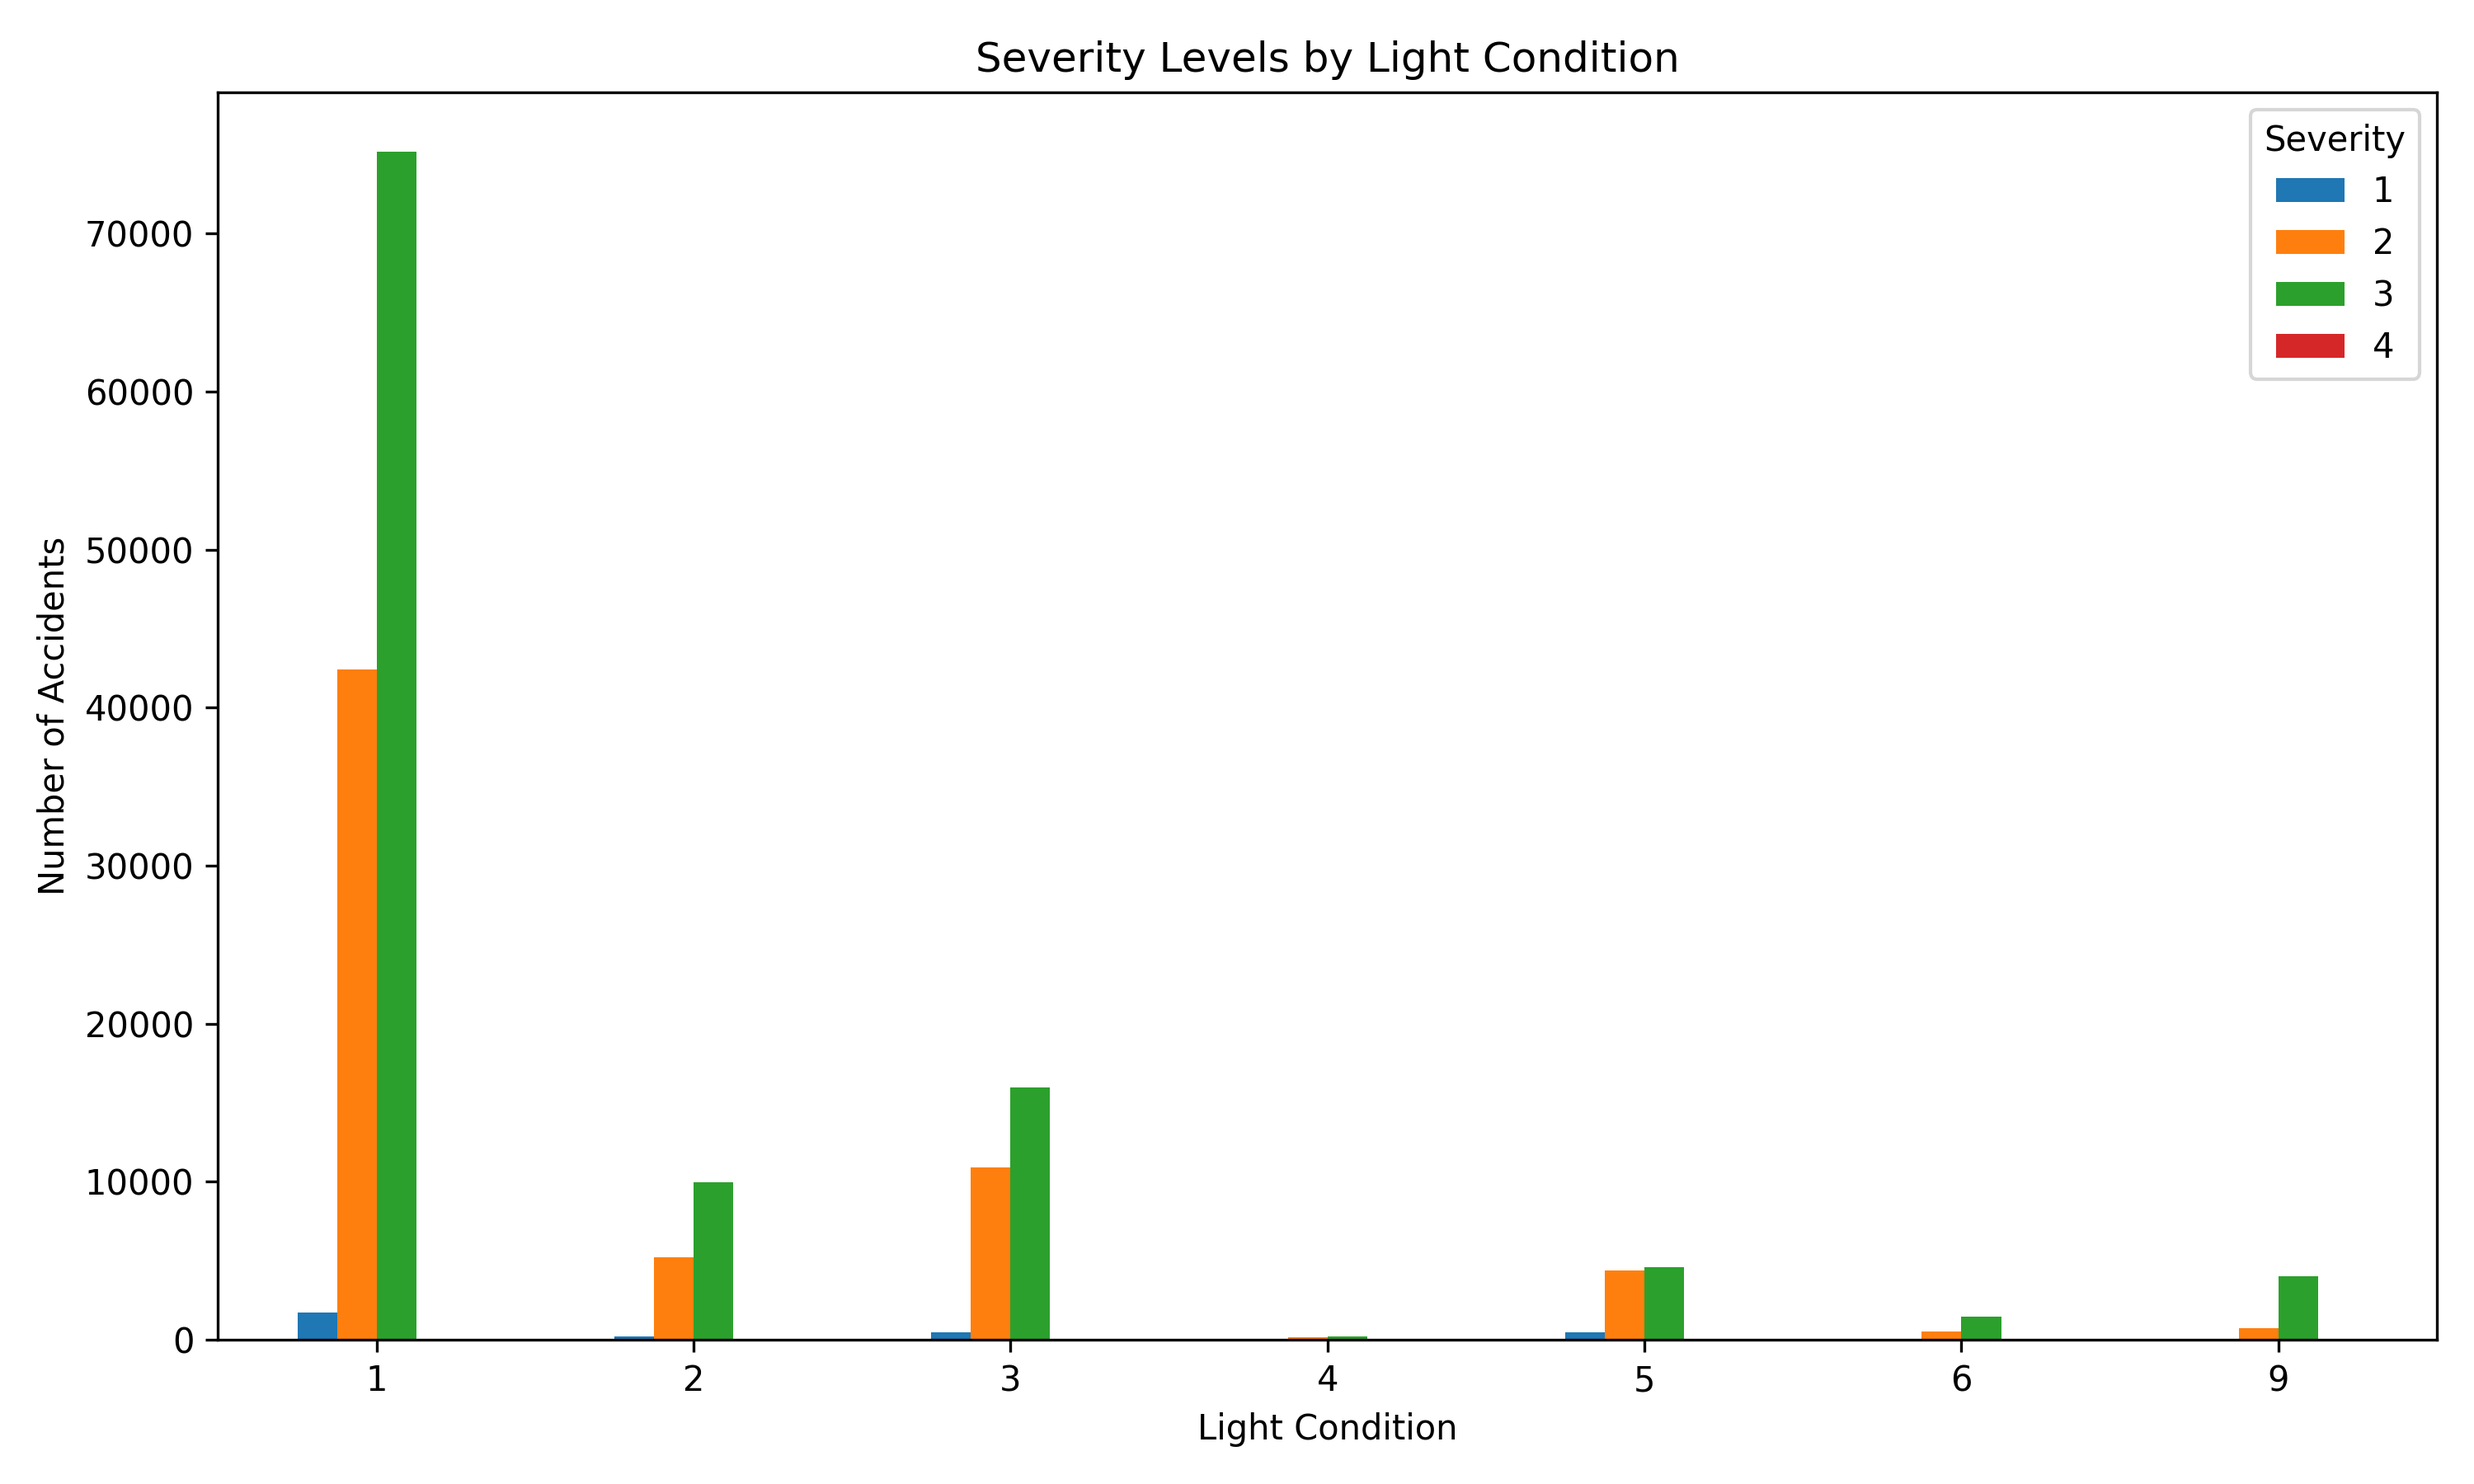
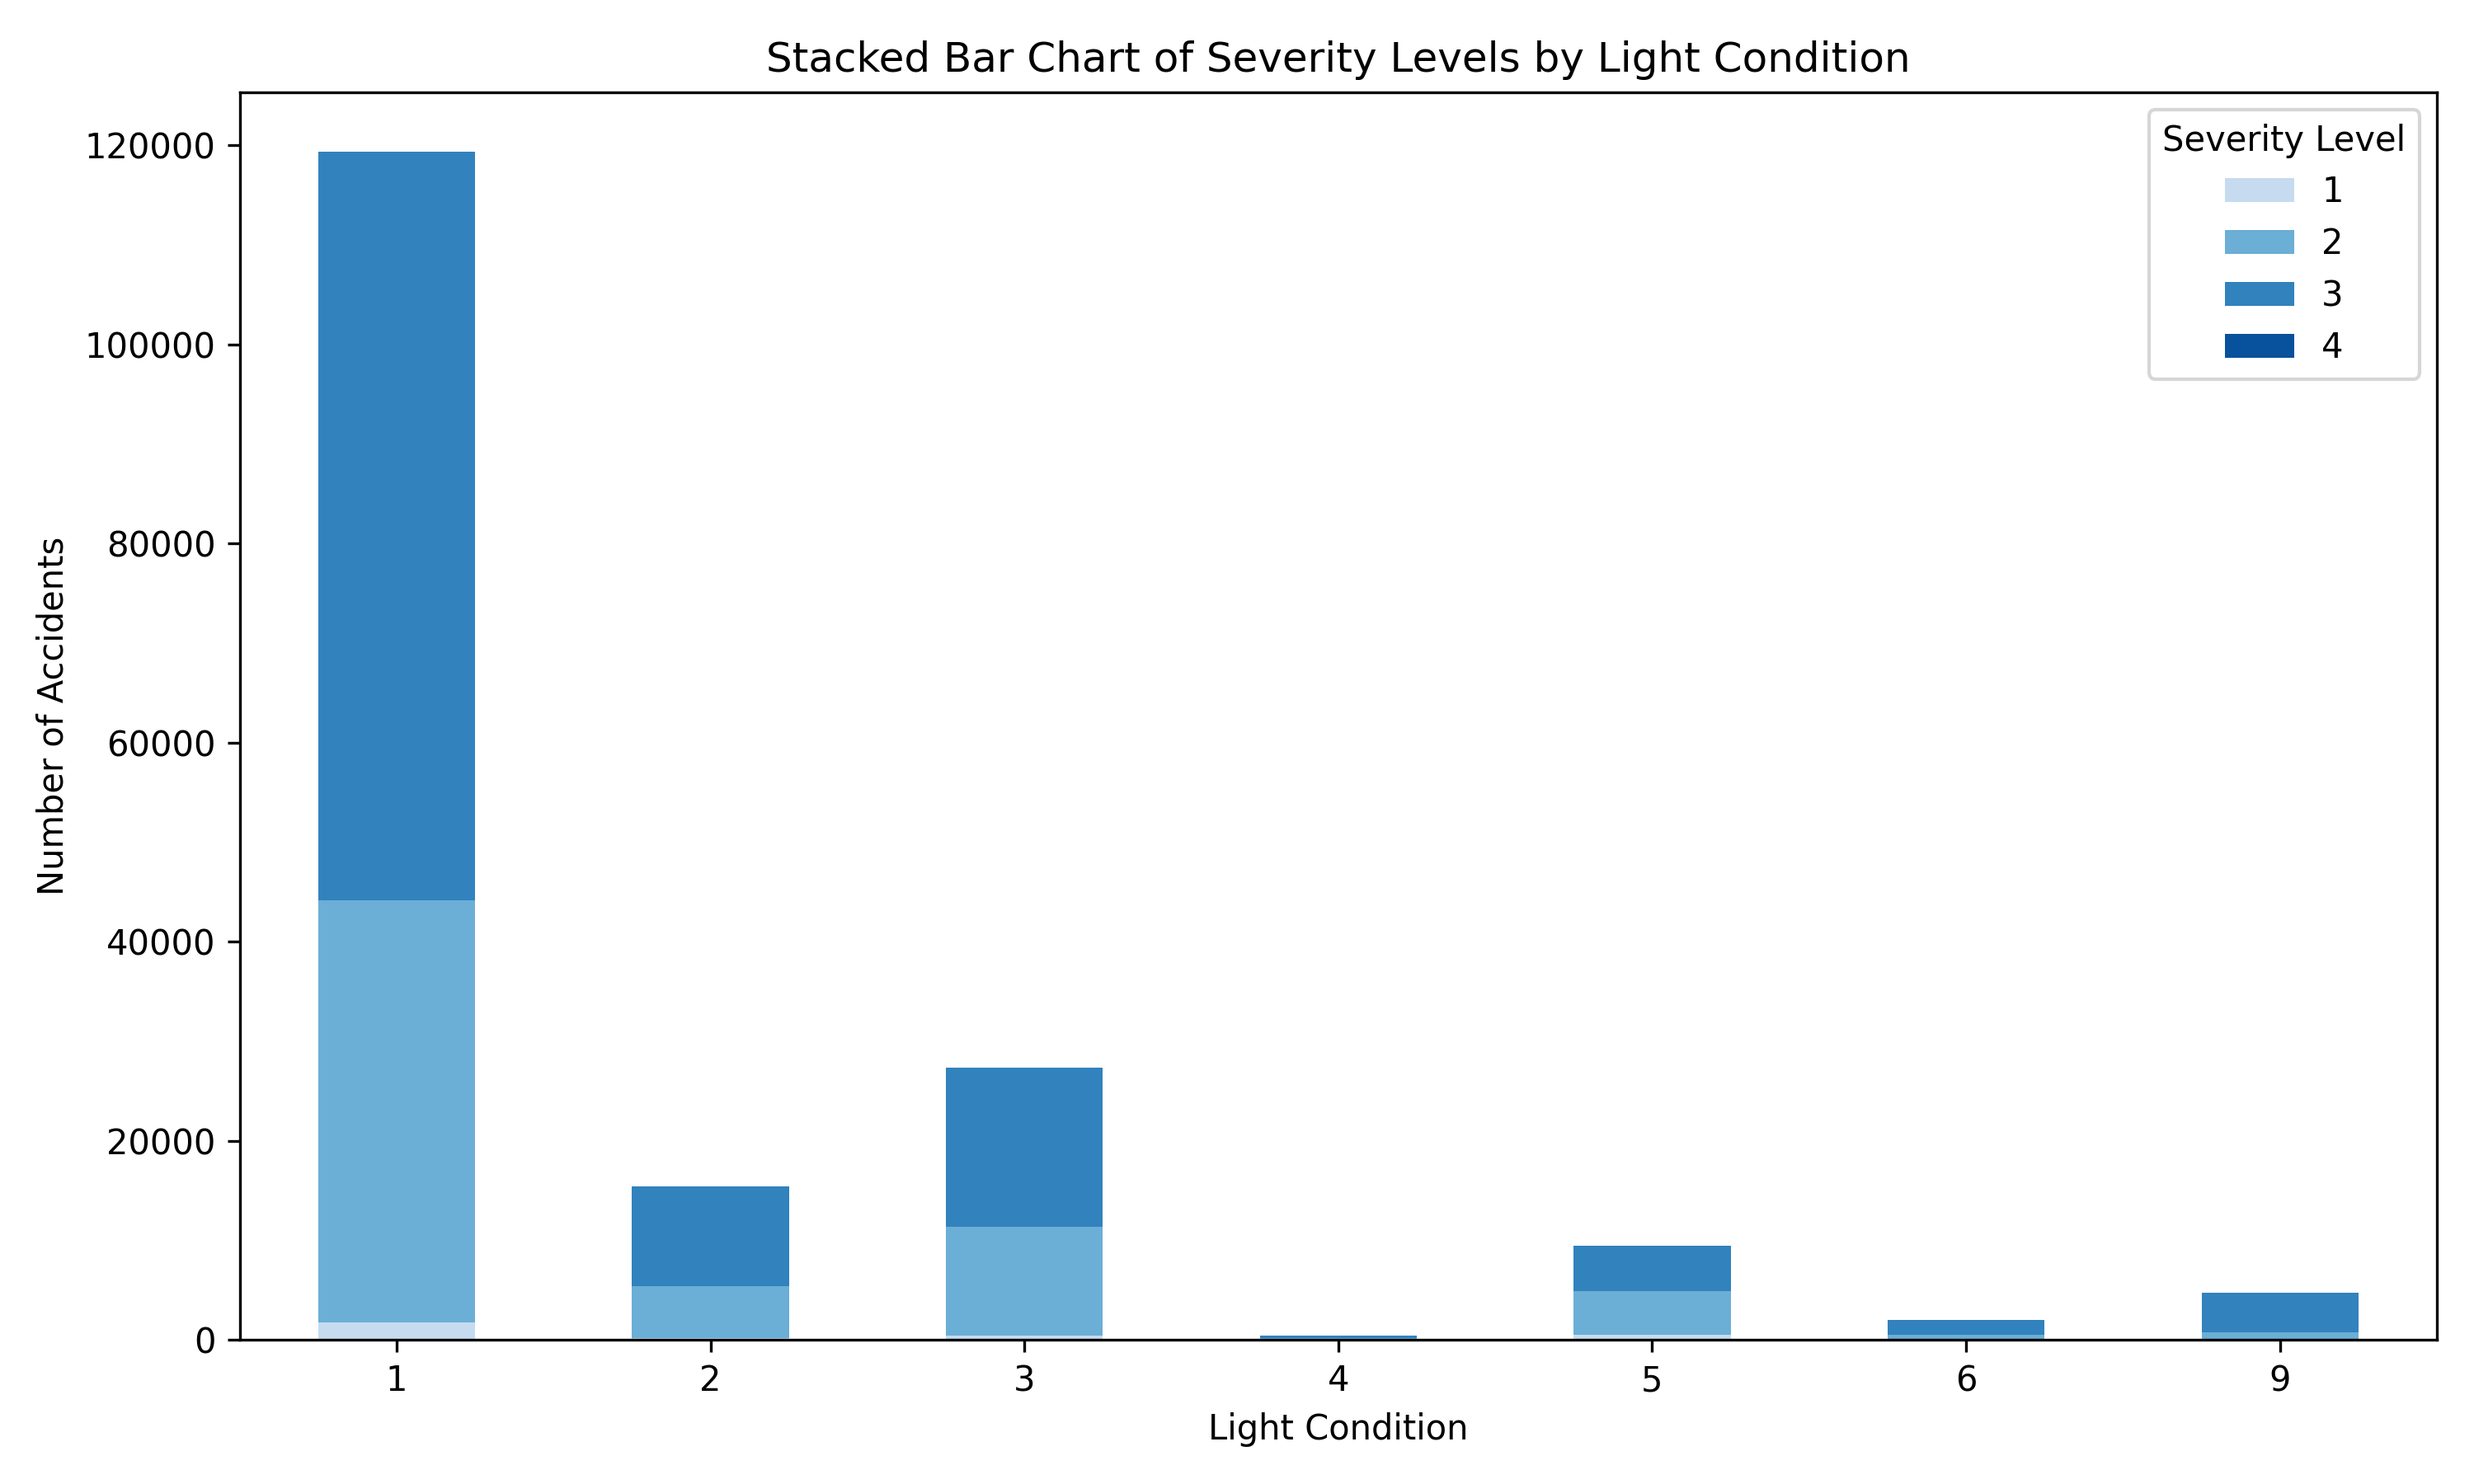
Update code for requirement 2 for Task_3.py to generate Task_3_lightcondition.png

diff --git a/Task_3.py b/Task_3.py
@@ -2,7 +2,7 @@
 # We will focus on these points for task 3:
 #     + Generate a heat map showing the correlation between SEVERITY, NO_OF_VEHICLES, and SPEED_ZONE
 #       --> save as Task_3_heatmap.png
-#     + Create a grouped bar chart comparing severity levels across different LIGHT_CONDITION categories
+#     + Create a stacked bar chart comparing severity levels across different LIGHT_CONDITION categories
 #       --> save as Task_3_lightcondition.png
 #     + Analyze the relationship between SEVERITY and NO_PERSONS_KILLED / NO_PERSON_INJ_2 / NO_PERSON_INJ_3
 #       --> save as Task_3_injuries.png
@@ -66,19 +66,30 @@ for check in checking_col:
     print(check.value_counts(dropna=False))
 '''
 
-# Group by LIGHT_CONDITION and SEVERITY, then count
+# Step 2: Group and pivot
 grouped = second_cleaned_accident.groupby(['LIGHT_CONDITION', 'SEVERITY']).size().reset_index(name='count')
-pivot_table = grouped.pivot(index='LIGHT_CONDITION', columns='SEVERITY', values='count')
+pivot_table = grouped.pivot(index='LIGHT_CONDITION', columns='SEVERITY', values='count').fillna(0)
 
-# And now plot the grouped bar chart
-pivot_table.plot(kind='bar', figsize=(10, 6))
+# Ensure severity levels are in order (1 to 4)
+pivot_table = pivot_table[[1, 2, 3, 4]] if set([1,2,3,4]).issubset(pivot_table.columns) else pivot_table
 
-plt.title('Severity Levels by Light Condition')
+# Step 3: Define custom colors (lighter to darker)
+colors = ['#c6dbef', '#6baed6', '#3182bd', '#08519c']  # light blue → dark blue
+
+# Step 4: Plot stacked bar chart
+pivot_table.plot(kind='bar', stacked=True, figsize=(10, 6), color=colors)
+
+plt.title('Stacked Bar Chart of Severity Levels by Light Condition')
 plt.xlabel('Light Condition')
 plt.ylabel('Number of Accidents')
-plt.legend(title='Severity')
+plt.legend(title='Severity Level')
 plt.xticks(rotation=0)
 
-# And then save the figure
+# Step 5: Save it
 plt.tight_layout()
 plt.savefig('Task_3_lightcondition.png', dpi=300)
+plt.show()
+
+'''
+    REQUIREMENT 3: Analyze the relationship between SEVERITY level and the number of victims of different types
+'''
